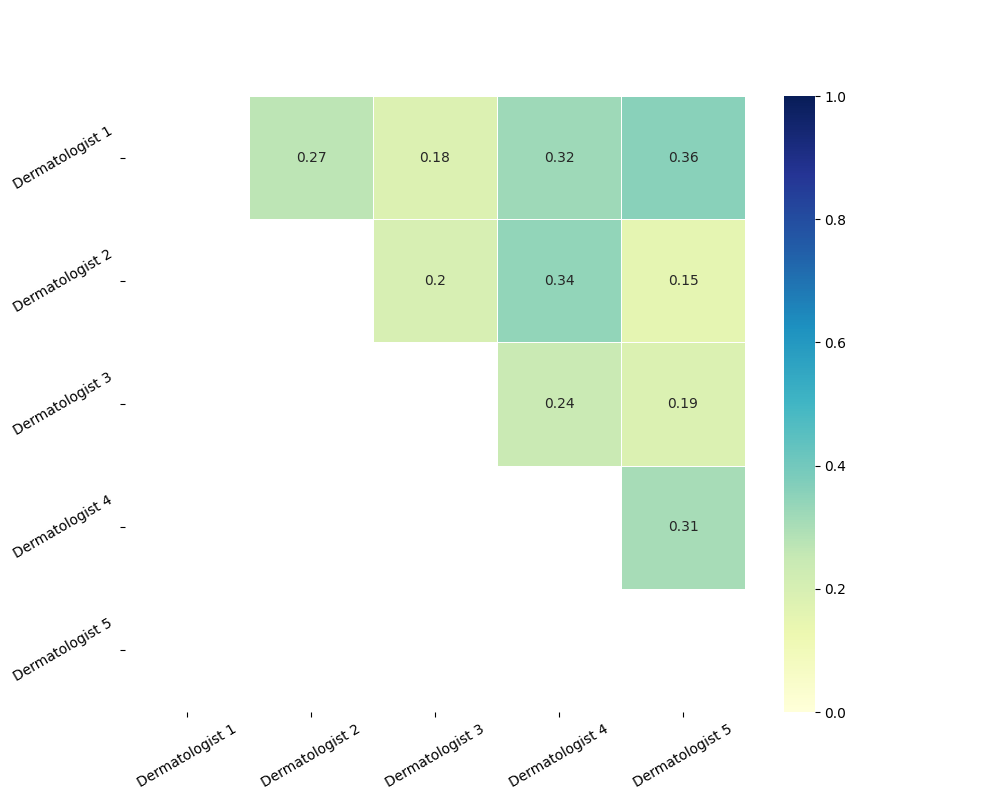
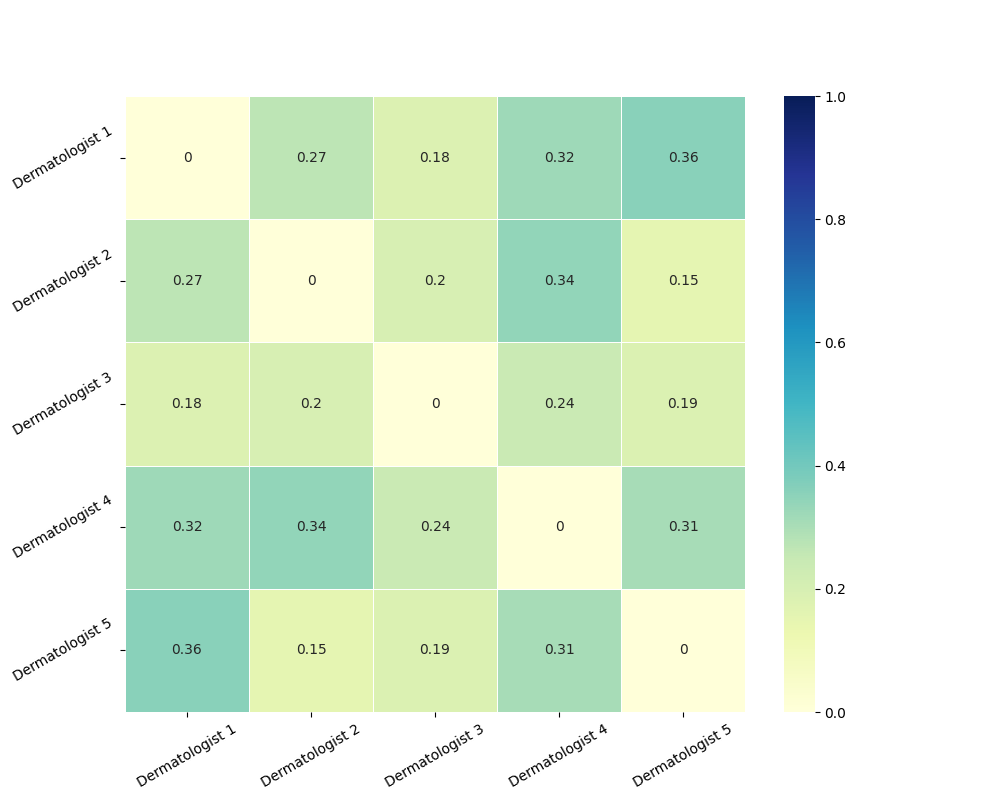
Add files via upload

Changed region(s): [[0.124, 0.0938, 0.744, 0.9062]]

diff --git a/cohen_kappa.py b/cohen_kappa.py
@@ -40,10 +40,11 @@ def Calculate_Cohen_Kappa_more_raters(raters):
     data = np.zeros((len(raters), len(raters)))
     for j, k in list(itertools.combinations(range(len(raters)), r=2)):
         data[j, k] = cohen_kappa_score(raters[j], raters[k])
+        data[k, j] = cohen_kappa_score(raters[k], raters[j])
     fig, ax = plt.subplots(figsize=(10,8)) 
     sns.heatmap(
         data, 
-        mask=np.tri(len(raters)),
+        #mask=np.tri(len(raters)),
         annot=True, 
         linewidths=0.5,
         vmin=0, 
